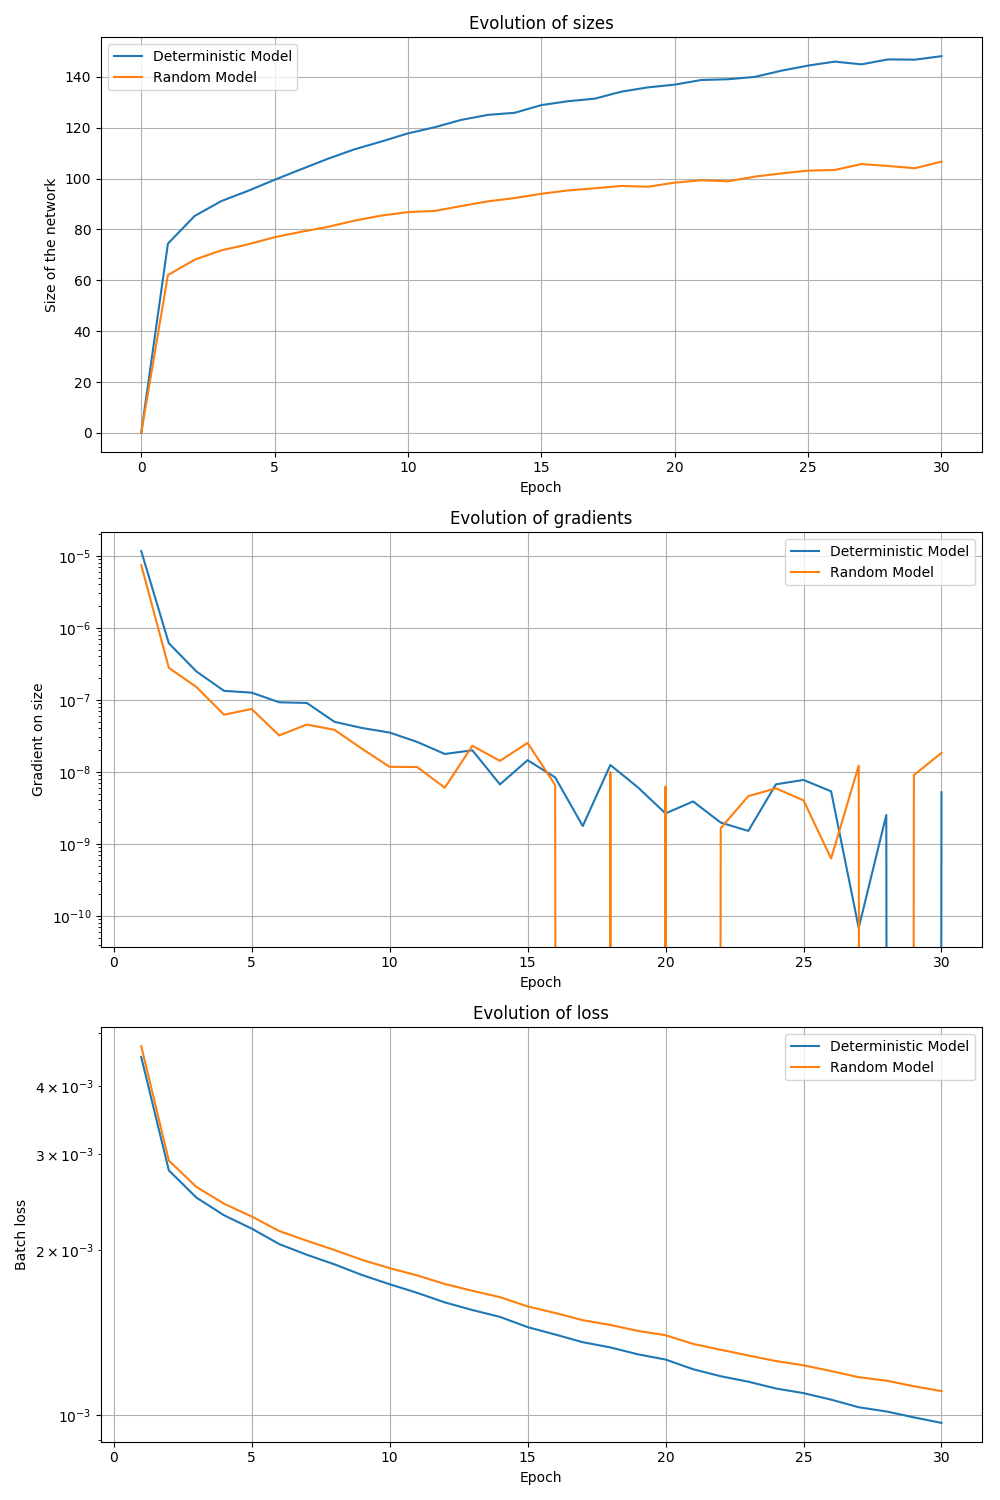
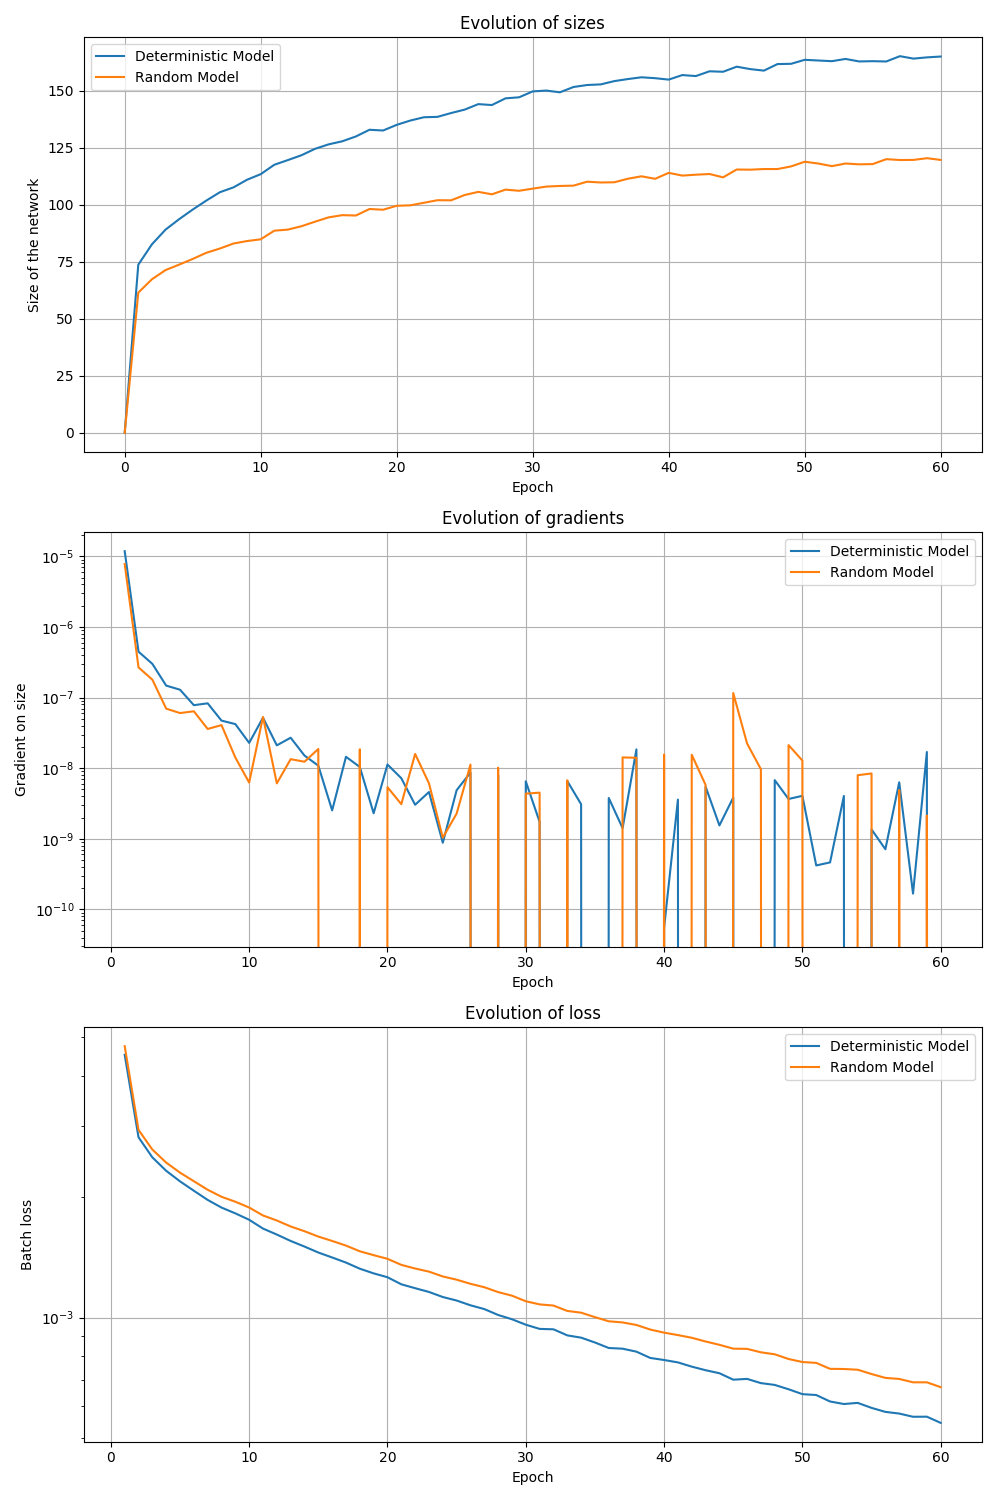
Make the expreiment last longer

diff --git a/simple_metricless.py b/simple_metricless.py
@@ -277,7 +277,7 @@ def compare_convergence(ds):
     simple_models = [MNIST_1h_flexible(500, wrap, 0).cuda() for _ in r]
     random_models = [MNIST_1h_flexible_random(500, wrap, 0).cuda() for _ in r]
     all_models = simple_models + random_models
-    result = train(all_models, dl, lamb=0, epochs=EPOCHS * 2, l2_penalty=0)
+    result = train(all_models, dl, lamb=0, epochs=EPOCHS * 4, l2_penalty=0)
     sizes, gradients, losses = [x.reshape(-1, 2, replicas).mean(axis=2).T for x in result]
     plot_convergence_comparison(sizes, gradients, losses, ds.__name__)
 
